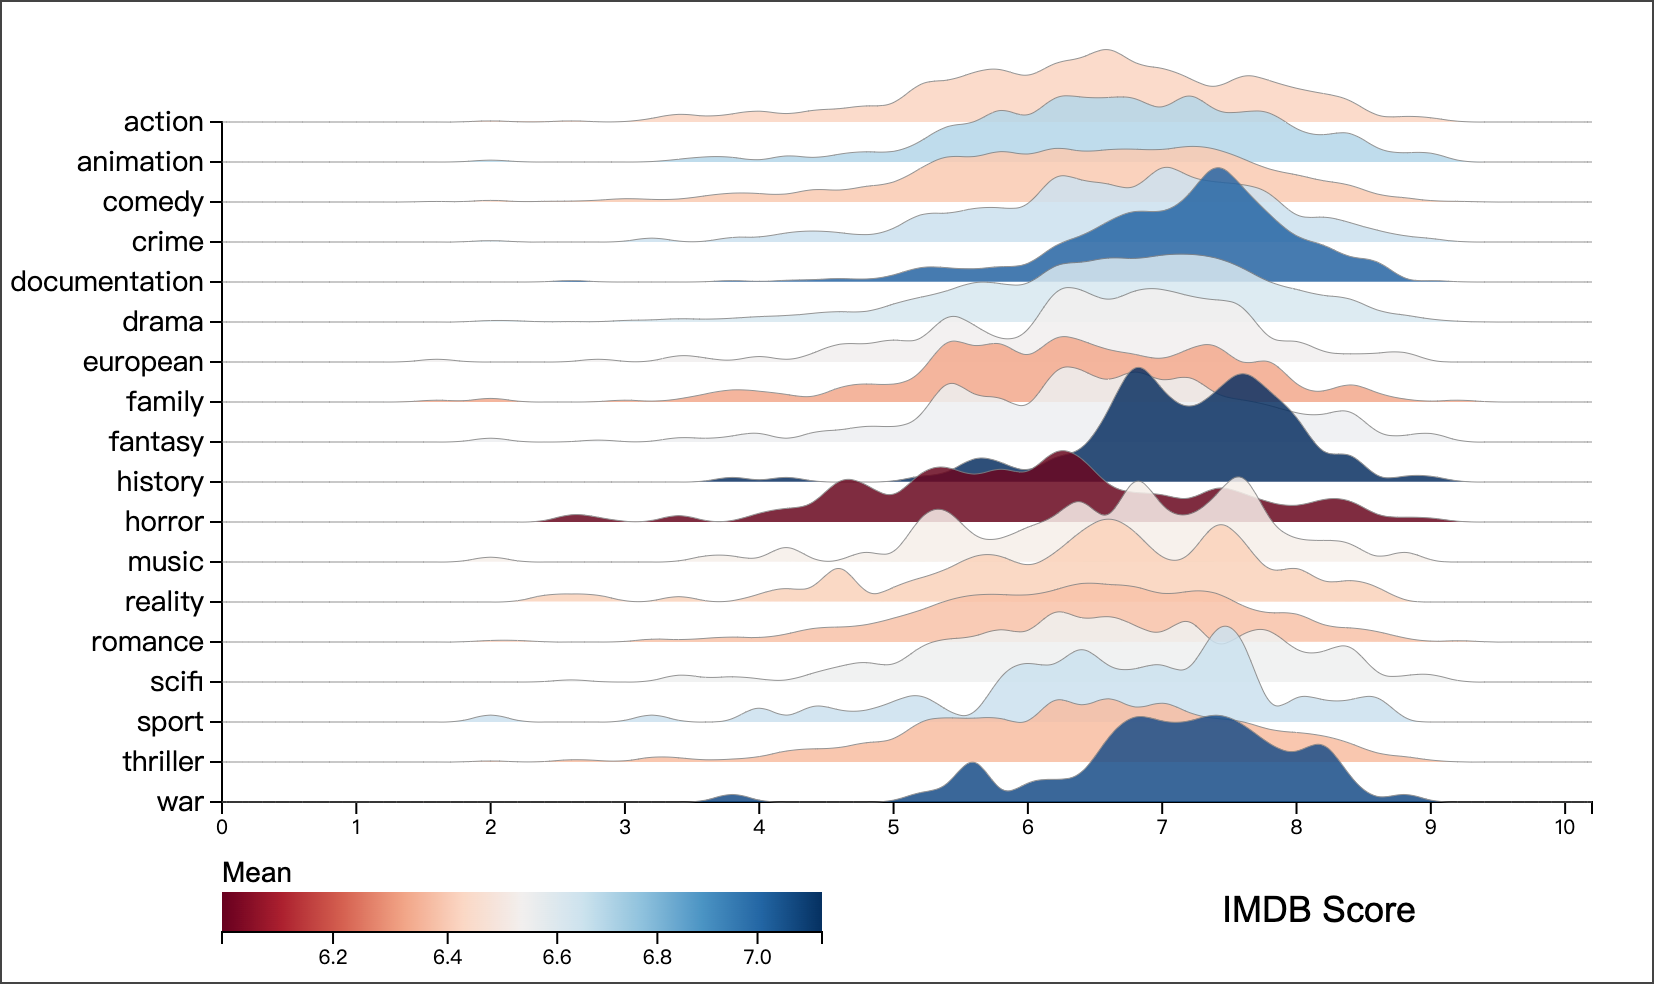
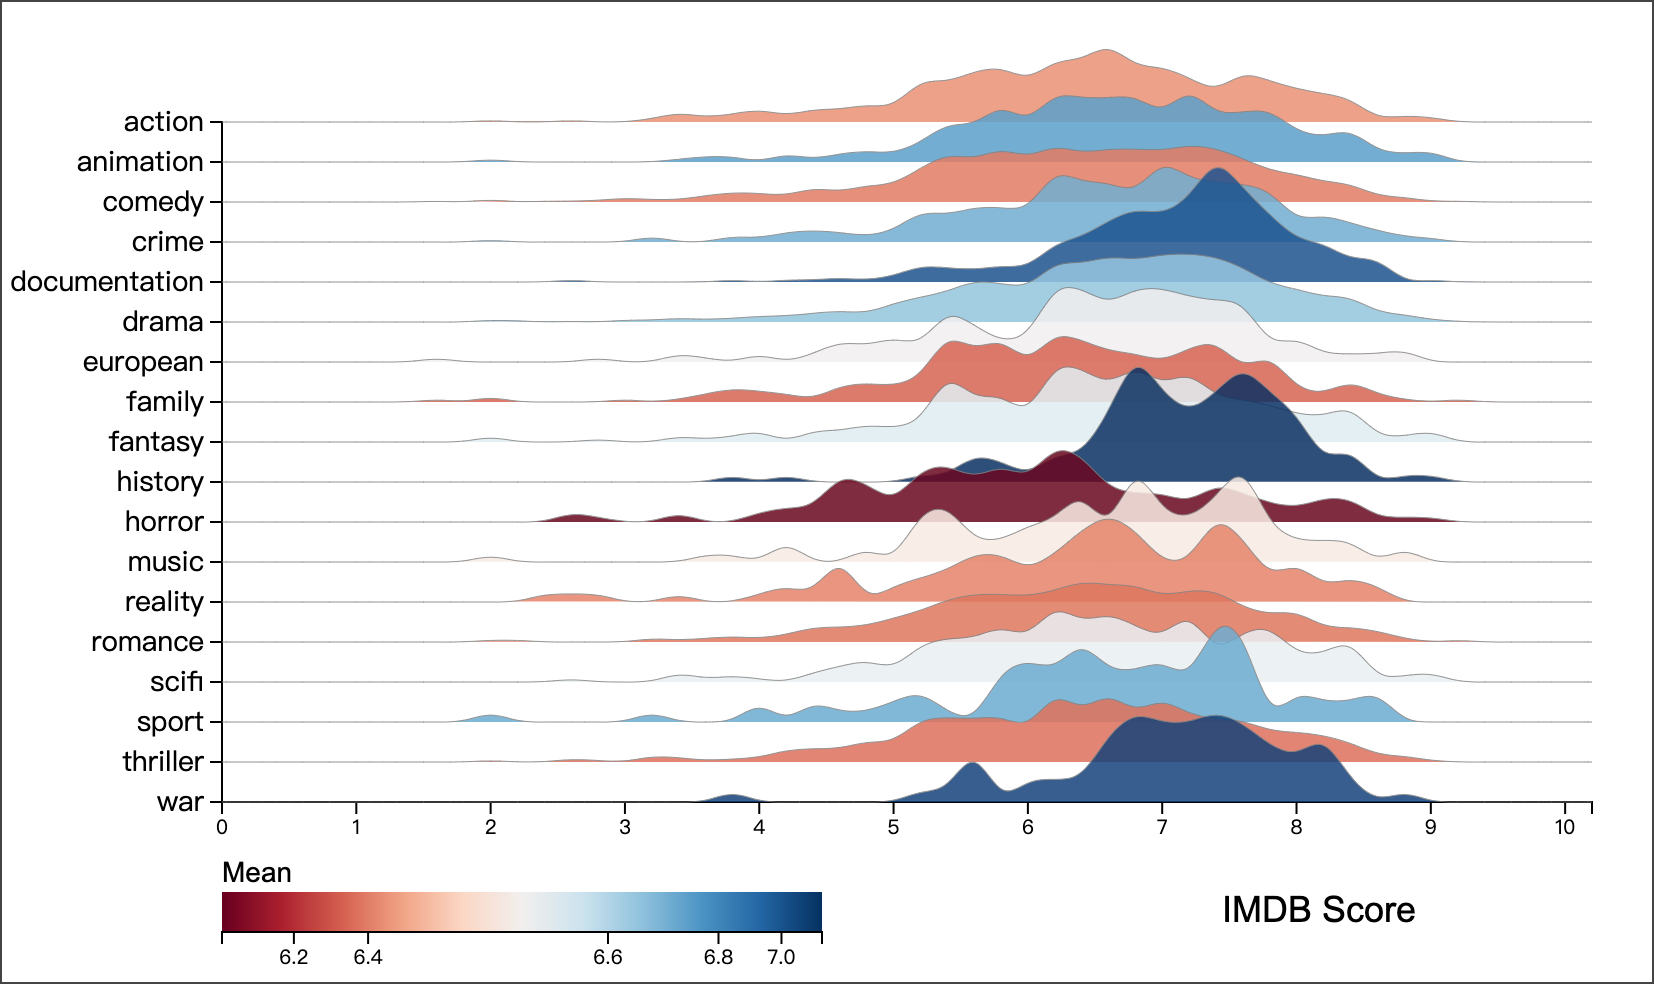
optimize color scheme

diff --git a/js/vis_chenwei_wan.js b/js/vis_chenwei_wan.js
@@ -454,8 +454,8 @@ function toggleScatterPlotPopRevScale(scale) {
 
     // Transition the y-axis to the new scale
     yAxis.transition()
-        .duration(1000) // Duration of the transition in milliseconds
-        .call(d3.axisLeft(y).ticks(null, ".1s")); // Create the y-axis with the new log scale
+        .duration(1000)
+        .call(d3.axisLeft(y).ticks(null, ".1s"));
 
     function makeGridlinesY() {
         return d3.axisLeft(y)
@@ -604,6 +604,13 @@ function computeDistributionDensity(x, data, threshold) {
     return output;
 }
 
+function getPercentile(data, percentile) {
+    let dataCopy = JSON.parse(JSON.stringify(data));
+    data.sort((a, b) => a - b);
+    let index = Math.ceil((percentile / 100) * (data.length - 1));
+    return data[index];
+}
+
 function plotGenreImdbDistribution(rootG, data) {
     let x = d3.scaleLinear()
         .domain([0, 10.2])
@@ -638,8 +645,8 @@ function plotGenreImdbDistribution(rootG, data) {
 
     // color scale
     let contrast = d3.scaleLinear()
-        .domain([d3.min(allAvg), d3.median(allAvg), d3.max(allAvg)])
-        .range([0, 0.5, 1]);
+        .domain([d3.min(allAvg), getPercentile(allAvg, 25), d3.median(allAvg), getPercentile(allAvg, 75), d3.max(allAvg)])
+        .range([0, 0.25, 0.5, 0.75, 1]);
     let colorScale = d3.scaleSequential(d3.interpolateRdBu);
 
     // Add areas
@@ -712,8 +719,8 @@ function plotGenreImdbDistribution(rootG, data) {
         .attr("height", 20)
         .style("fill", "url(#linear-gradient)");
     let legendX = d3.scaleLinear()
-        .domain([d3.min(allAvg), d3.median(allAvg), d3.max(allAvg)])
-        .range([0, 150, 300]);
+        .domain([d3.min(allAvg), getPercentile(allAvg, 25), d3.median(allAvg), getPercentile(allAvg, 75), d3.max(allAvg)])
+        .range([0, 75, 150, 225, 300]);
     legendG.append("g")
         .attr("id", "dis-legend-x-axis")
         .attr("transform", "translate(0, 25)")
@@ -786,8 +793,8 @@ function transitionTo(density, name) {
         .range([0, -ctxChenwei.distribution.h]);
     // color scale
     let contrast = d3.scaleLinear()
-        .domain([d3.min(allAvg), d3.median(allAvg), d3.max(allAvg)])
-        .range([0, 0.5, 1]);
+        .domain([d3.min(allAvg), getPercentile(allAvg, 25), d3.median(allAvg), getPercentile(allAvg, 75), d3.max(allAvg)])
+        .range([0, 0.25, 0.5, 0.75, 1]);
     let colorScale = d3.scaleSequential(d3.interpolateRdBu);
 
     // areas
@@ -819,8 +826,8 @@ function transitionTo(density, name) {
 
     // transition for legend x-axis
     let legendX = d3.scaleLinear()
-        .domain([d3.min(allAvg), d3.median(allAvg), d3.max(allAvg)])
-        .range([0, 150, 300]);
+        .domain([d3.min(allAvg), getPercentile(allAvg, 25), d3.median(allAvg), getPercentile(allAvg, 75), d3.max(allAvg)])
+        .range([0, 75, 150, 225, 300]);
     rootG.select("#dis-legend-x-axis")
         .transition()
         .duration(1000)
